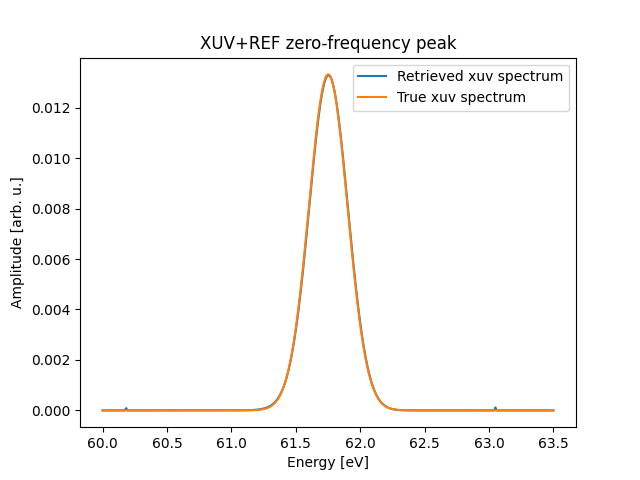
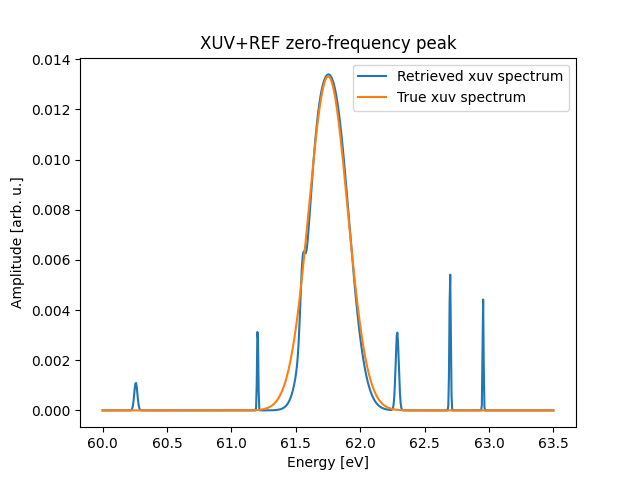
stuff

diff --git a/deconvolve_probe.py b/deconvolve_probe.py
@@ -627,7 +627,7 @@ def sp_tot_2d(gausses,OM,TAU):
         retval += spectrum_fun_2d(a0,om0,s0,OM,TAU)
     return retval
 
-def Amplitude(xuvs,refprobes,E,E_spinorbit=0):
+def Amplitude(xuvs,refprobes,E,E_spinorbit=0,t_order=None):
     n_t, n_e = E.shape
     amplit_tot = np.zeros((n_t,n_e)).astype(complex)
 
@@ -636,10 +636,20 @@ def Amplitude(xuvs,refprobes,E,E_spinorbit=0):
         tau_i,A_i,om0_i,s_i,phi_i = xuv
         xuvs_mod.append((tau_i,A_i,om0_i-E_spinorbit/hbar,s_i,phi_i))
 
-    for xuv in xuvs_mod:
-        for rp in refprobes:
-            amplit_tot += Amplitude_ij(xuv,rp,E)
-            amplit_tot += Amplitude_ij(rp,xuv,E)
+    if t_order == None:
+        for xuv in xuvs_mod:
+            for rp in refprobes:
+                amplit_tot += Amplitude_ij(xuv,rp,E)
+                amplit_tot += Amplitude_ij(rp,xuv,E)
+    elif t_order == 1:
+        for xuv in xuvs_mod:
+            for rp in refprobes:
+                amplit_tot += Amplitude_ij(xuv,rp,E)
+    else:
+        for xuv in xuvs_mod:
+            for rp in refprobes:
+                amplit_tot += Amplitude_ij(rp,xuv,E)
+
     return amplit_tot
 
 def extract_midslice(sig_full,slice_fracts,sliced_range):
@@ -726,14 +736,14 @@ def detrend_spike(sig_mid,row_axis,n_spike_buffer,n_fitting_buffer,above_thresh_
     return amplit_tot_FT_mid_detrended, spike_only, spike_row_mid
 
 def rl_deconvolve_nonneg(y, h, n_iter=200, pad_factor=2.0, eps=1e-12, smooth_sigma=0.0):
-    """Richardson–Lucy deconvolution enforcing non-negativity.
+    """Richardson-Lucy deconvolution enforcing non-negativity.
 
     Model: y ≈ h * x (linear convolution), with x ≥ 0.
 
     Args:
         y: observed 1D signal (real, preferably non-negative)
         h: kernel (impulse response); must have sum(h) > 0
-        n_iter: RL iterations (typical 50–300)
+        n_iter: RL iterations (typical 50-300)
         pad_factor: multiplier for linear conv length before next pow2 (reduces wrap-around)
         eps: small constant to avoid divide-by-zero
         smooth_sigma: optional Gaussian smoothing each iteration (in samples) to stabilize
@@ -842,6 +852,10 @@ def synth_baseline(sp1,sp2,OM1,OM2):
 
     return conv1 + conv2
 
+def plotdiff(mat1,mat2):
+    plot_mat((normalize_abs(mat1)-normalize_abs(mat2))/np.max(np.abs(normalize_abs(mat1))))
+    return
+
 ###
 ### FIELD PARAMETERS
 ###
@@ -893,7 +907,7 @@ probes = (pulse_probe,pulse_probe2,pulse_probe3,pulse_probe4)
 xuvs = (pulse_xuv,)#,pulse_xuv2,pulse_xuv3]
 refprobes = tuple(list(refs) + list(probes))
 
-plot_spectra(probes,title='Probe spectrum',saveloc='newims/spectrum.png')
+# plot_spectra(probes,title='Probe spectrum',saveloc='newims/spectrum.png')
 
 ###
 ### GENERATE SIGNAL
@@ -901,11 +915,18 @@ plot_spectra(probes,title='Probe spectrum',saveloc='newims/spectrum.png')
 
 amplit_tot_0 = Amplitude(xuvs,refprobes,E)
 
+# a_x_pr = Amplitude(xuvs,probes,E,t_order=1)
+# a_pr_x = Amplitude(xuvs,probes,E,t_order=2)
+# a_x_ref = Amplitude(xuvs,refs,E,t_order=1)
+# a_ref_x = Amplitude(xuvs,refs,E,t_order=2)
+# amplit_tot_0 = np.conjugate(a_x_pr)*a_ref_x + np.conjugate(a_ref_x)*a_x_pr
+# amplit_tot_0 = np.conjugate(a_pr_x)*a_x_ref + np.conjugate(a_x_ref)*a_pr_x
+
 # Transition dipole element (square modulus summed over ionization OAM channels) is approximated as T_i(E) = a_i*(E-E_0)
 
 a_dipole_0 = 0.00
 
-SNR = 70
+SNR = 200
 
 signal_clean = (1 + a_dipole_0*(E-om_xuv*hbar)) * np.abs(amplit_tot_0)**2
 
@@ -917,10 +938,11 @@ else:
     noise = noise_rms * np.random.normal(size=signal_clean.shape)
     signal = signal_clean + noise
 
+### TODO: We might know more about the noise, i.e. perhaps it's Poissonian? Then it's fully defined by the signal
+
 amplit_tot_FT, OM_T, em_lo, em_hi = CFT(T_range,signal,use_window=False)
 
-# plot_mat(signal,[E_lo,E_hi,-T_reach,T_reach],cmap='plasma',mode='phase')
-# plot_mat(np.minimum(np.abs(amplit_tot_FT),10),[E_lo,E_hi,em_lo,em_hi],cmap='plasma',mode='phase')
+plot_mat(np.clip(np.real(amplit_tot_FT),-12,12),mode='phase')
 
 ###
 ### DETRENDING - SEPARATING PROBE AND REF ZERO FREQ COMPONENT 
@@ -1020,8 +1042,6 @@ plt.show()
 ### 2D RETRIEVAL
 ###
 
-
-
 OM1 = E/hbar - E_lo/hbar + 0.1 + E_span/hbar/N_E/2 * ((N_E-1) % 2)
 sp1 = sp_tot_2d(probes,OM1,T)
 
@@ -1038,6 +1058,18 @@ kernel_aligned = np.roll(kernel, shift)
 xuvss = np.tile(kernel_aligned, (N_T, 1))
 
 sb2 = synth_baseline(sp1,xuvss,OM1,OM2)
+
+
+# plot_mat(normalize_abs(np.abs(sigg)),mode='phase')
+# plot_mat(normalize_abs(np.abs(sig_probe_reconstructed)),mode='phase')
+
+plotdiff(sigg,sig_probe_reconstructed)
+
+# Measured baseline:
+
+estimate = np.abs(sig_probe_reconstructed[N_T//2,:])
+plt.plot(estimate)
+plt.show()
 
 ###
 ### CORRECTION ANALYTICALLY
